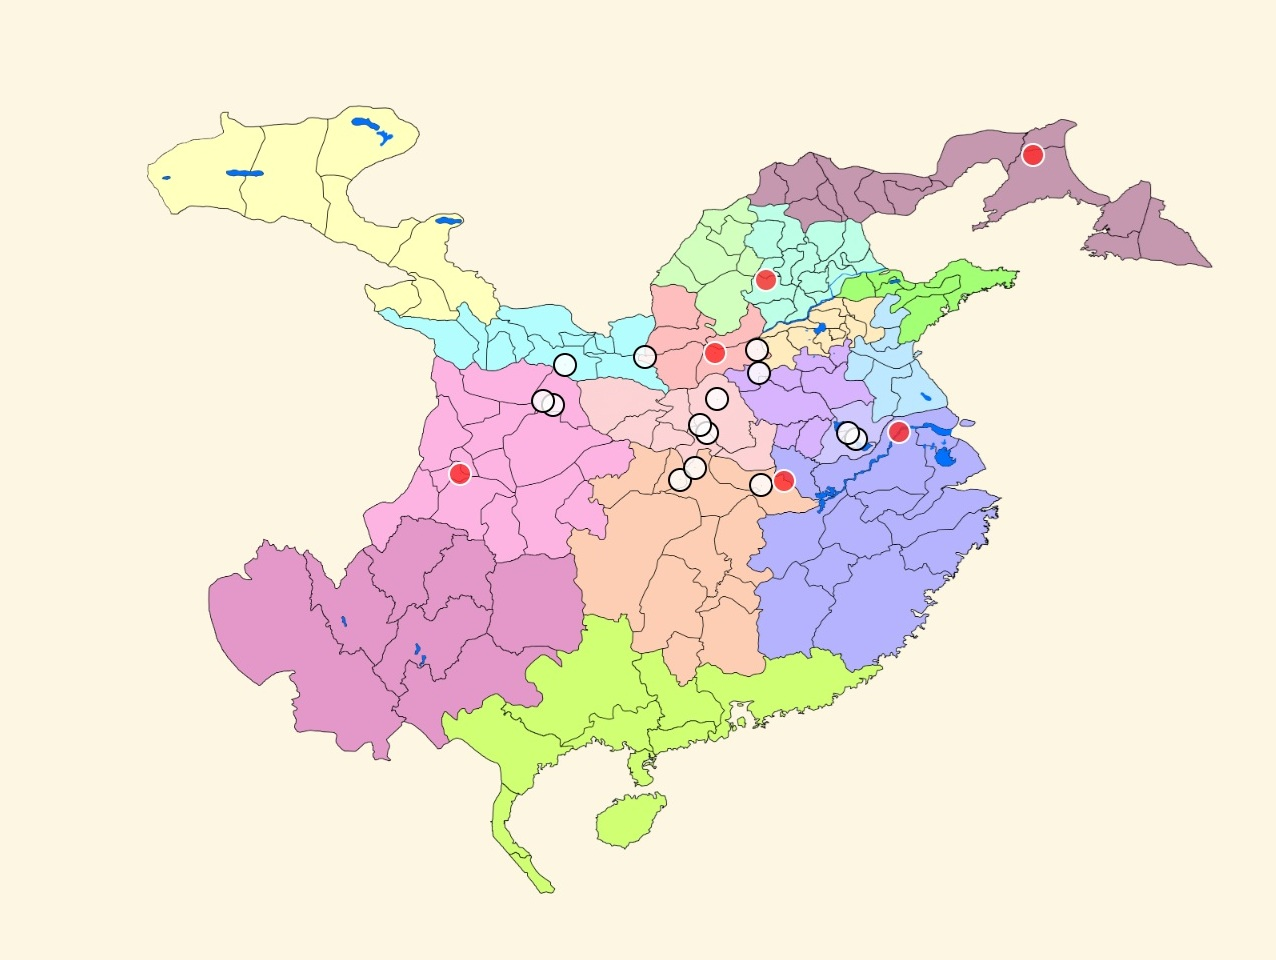
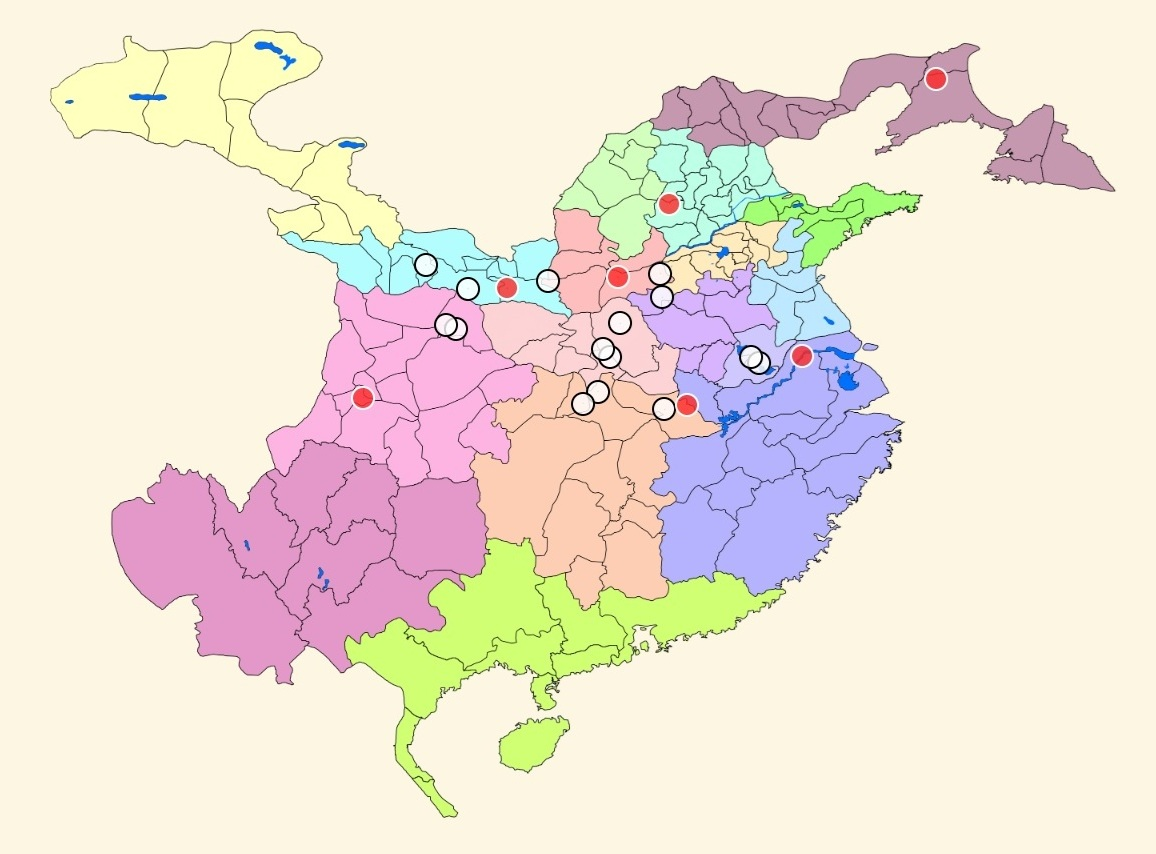
added characters, updated map, content fixes

Changed region(s): [[0.0311, 0.0304, 0.9654, 0.9742]]

diff --git a/ThreeKingdoms/characters.html b/ThreeKingdoms/characters.html
@@ -281,6 +281,21 @@
                         <div class="flip-card-inner">
                             <div class="flip-card-front">
                                 <img class="card-img" src="images/caowei.png" alt="Cao Wei">
+                                <h3>Meng Da</h3>
+                            </div>
+                            <div class="flip-card-back">
+                                <p><strong>Name:</strong> Meng Da (孟達, courtesy name Zidu)</p>
+                                <p><strong>Years:</strong> ?–228 AD</p>
+                                <p><strong>Role:</strong> Warlord and general</p>
+                                <p><strong>Bio:</strong> Originally a general under Shu Han, Meng Da defected to Cao Wei, where he was granted command of key territories. He later plotted to return to Shu, but his conspiracy was uncovered by Sima Yi, who executed him.</p>
+                                <p>His shifting loyalties exemplify the unstable political landscape of the Three Kingdoms.</p>
+                            </div>
+                        </div>
+                    </div>
+                    <div class="flip-card caowei">
+                        <div class="flip-card-inner">
+                            <div class="flip-card-front">
+                                <img class="card-img" src="images/caowei.png" alt="Cao Wei">
                                 <h3>Pang De</h3>
                             </div>
                             <div class="flip-card-back">
@@ -564,6 +579,21 @@
                         <div class="flip-card-inner">
                             <div class="flip-card-front">
                                 <img class="card-img" src="images/shuhan.png" alt="Shu Han">
+                                <h3>Deng Zhi</h3>
+                            </div>
+                            <div class="flip-card-back">
+                                <p><strong>Name:</strong> Deng Zhi (鄧芝, courtesy name Bomiao)</p>
+                                <p><strong>Years:</strong> ?–251 AD</p>
+                                <p><strong>Role:</strong> Diplomat and General of Shu Han</p>
+                                <p><strong>Bio:</strong> Known for his sharp diplomacy, he successfully negotiated with Eastern Wu after Guan Yu's death to repair the alliance with Shu.</p>
+                                <p>He later served as a general during Zhuge Liang's Northern Expeditions and was respected for both intellect and loyalty.</p>
+                            </div>
+                        </div>
+                    </div>
+                    <div class="flip-card shuhan">
+                        <div class="flip-card-inner">
+                            <div class="flip-card-front">
+                                <img class="card-img" src="images/shuhan.png" alt="Shu Han">
                                 <h3>Fa Zheng</h3>
                             </div>
                             <div class="flip-card-back">
@@ -678,6 +708,20 @@
                         <div class="flip-card-inner">
                             <div class="flip-card-front">
                                 <img class="card-img" src="images/shuhan.png" alt="Shu Han">
+                                <h3>Lady Gan</h3>
+                            </div>
+                            <div class="flip-card-back">
+                                <p><strong>Name:</strong> Lady Gan</p>
+                                <p><strong>Years:</strong> ?–210 AD</p>
+                                <p><strong>Role:</strong> Concubine of Liu Bei, mother of Liu Shan</p>
+                                <p><strong>Bio:</strong> Posthumously honored as Lady Huangsi (the Lady whom the Emporer misses) and later Empress Zhaolie by Liu Shan. Her death was recorded in 210 AD.</p>
+                            </div>
+                        </div>
+                    </div>
+                    <div class="flip-card shuhan">
+                        <div class="flip-card-inner">
+                            <div class="flip-card-front">
+                                <img class="card-img" src="images/shuhan.png" alt="Shu Han">
                                 <h3>Lady Huang</h3>
                             </div>
                             <div class="flip-card-back">
@@ -685,6 +729,65 @@
                                 <p><strong>Years:</strong> ?</p>
                                 <p><strong>Role:</strong> Scholar / Inventor</p>
                                 <p><strong>Bio:</strong> Reputed for intelligence and mechanical skill, assisting in inventions and Shu Han administration. Historical details are limited.</p>
+                            </div>
+                        </div>
+                    </div>
+                    <div class="flip-card shuhan">
+                        <div class="flip-card-inner">
+                            <div class="flip-card-front">
+                                <img class="card-img" src="images/shuhan.png" alt="Shu Han">
+                                <h3>Lady Wu</h3>
+                            </div>
+                            <div class="flip-card-back">
+                                <p><strong>Name:</strong> Lady Wu Xian (吳氏, Empress Wu)</p>
+                                <p><strong>Years:</strong> ?–245 AD</p>
+                                <p><strong>Role:</strong> Empress of Shu Han</p>
+                                <p><strong>Bio:</strong> Empress Wu was the wife of Liu Bei, the second emperor of Shu Han. She held the position of empress during Liu Shan’s reign and was involved in court affairs, though historical records offer few details about her personal life or political influence.</p>
+                            </div>
+                        </div>
+                    </div>
+                    <div class="flip-card shuhan">
+                        <div class="flip-card-inner">
+                            <div class="flip-card-front">
+                                <img class="card-img" src="images/shuhan.png" alt="Shu Han">
+                                <h3>Lady Zhang (Empress Jing’ai)</h3>
+                            </div>
+                            <div class="flip-card-back">
+                                <p><strong>Name:</strong> Lady Zhang (張氏, known as Empress Jing’ai)</p>
+                                <p><strong>Years:</strong> ?–237 AD</p>
+                                <p><strong>Role:</strong> First wife of Liu Shan</p>
+                                <p><strong>Bio:</strong> Lady Jing’Ai was the first wife of Liu Shan, and daugter of Shu general Zhang Fei. She held a respected position in the early days of Liu Shan’s tenure, supporting him in his political alliances.</p>
+                                <p>Historical records provide limited details about her life and influence.</p>
+                            </div>
+                        </div>
+                    </div>
+                    <div class="flip-card shuhan">
+                        <div class="flip-card-inner">
+                            <div class="flip-card-front">
+                                <img class="card-img" src="images/shuhan.png" alt="Shu Han">
+                                <h3>Lady Zhang</h3>
+                            </div>
+                            <div class="flip-card-back">
+                                <p><strong>Name:</strong> Lady Zhang (張氏, Empress Zhang)</p>
+                                <p><strong>Years:</strong> ?–264 AD</p>
+                                <p><strong>Role:</strong> Empress of Shu Han</p>
+                                <p><strong>Bio:</strong> The second wife of Emperor Liu Shan, they married in 238 AD the year after his previous wife, Lady Zhang's sister died. Daughter of Shu general Zhang Fei.</p>
+                                <p>She held the position of empress during the later years of Shu Han. Though little is known about her personal actions, she played a ceremonial and familial role within the royal court, supporting the imperial household during a period of political instability.</p>
+                            </div>
+                        </div>
+                    </div>
+                    <div class="flip-card shuhan">
+                        <div class="flip-card-inner">
+                            <div class="flip-card-front">
+                                <img class="card-img" src="images/shuhan.png" alt="Shu Han">
+                                <h3>Li Yan (Li Ping)</h3>
+                            </div>
+                            <div class="flip-card-back">
+                                <p><strong>Name:</strong> Li Yan (李嚴, courtesy name Zhengfang)</p>
+                                <p><strong>Years:</strong> ?–late 230s AD</p>
+                                <p><strong>Role:</strong> Official and General of Shu Han</p>
+                                <p><strong>Bio:</strong> Formerly an officer under Liu Zhang, he surrendered to Liu Bei and rose to high rank in Shu.</p>
+                                <p>Zhuge Liang entrusted him with logistics during the Northern Expeditions. However, after a supply failure and an attempted cover-up, he was stripped of office and demoted.</p>
                             </div>
                         </div>
                     </div>
@@ -729,6 +832,36 @@
                                 <p><strong>Years:</strong> ?–234 AD</p>
                                 <p><strong>Role:</strong> Shu General</p>
                                 <p><strong>Bio:</strong> Cousin of Ma Chao; served Shu Han faithfully and participated in later campaigns defending the state.</p>
+                            </div>
+                        </div>
+                    </div>
+                    <div class="flip-card shuhan">
+                        <div class="flip-card-inner">
+                            <div class="flip-card-front">
+                                <img class="card-img" src="images/shuhan.png" alt="Shu Han">
+                                <h3>Ma Su</h3>
+                            </div>
+                            <div class="flip-card-back">
+                                <p><strong>Name:</strong> Ma Su (馬謖, courtesy name Youchang)</p>
+                                <p><strong>Years:</strong> ?–228 AD</p>
+                                <p><strong>Role:</strong> Advisor and Officer of Shu Han</p>
+                                <p><strong>Bio:</strong> A talented but overconfident strategist trusted by Zhuge Liang. His poor handling of the Battle of Jieting led to a crucial defeat for Shu.</p>
+                                <p>Zhuge Liang, though fond of him, ordered his execution to uphold military law. His story became a cautionary tale about discipline and judgement.</p>
+                            </div>
+                        </div>
+                    </div>
+                    <div class="flip-card shuhan">
+                        <div class="flip-card-inner">
+                            <div class="flip-card-front">
+                                <img class="card-img" src="images/shuhan.png" alt="Shu Han">
+                                <h3>Ma Zhong</h3>
+                            </div>
+                            <div class="flip-card-back">
+                                <p><strong>Name:</strong> Ma Zhong (馬忠, courtesy name Dexian)</p>
+                                <p><strong>Years:</strong> ?–249</p>
+                                <p><strong>Role:</strong> Shu Han general and administrator</p>
+                                <p><strong>Bio:</strong> Served Shu Han under Liu Bei and Zhuge Liang, holding posts in the southern commanderies.</p>
+                                <p>Known for helping secure Shu’s frontiers and supporting the state’s internal governance through both civil and military service.</p>
                             </div>
                         </div>
                     </div>
@@ -793,6 +926,21 @@
                         <div class="flip-card-inner">
                             <div class="flip-card-front">
                                 <img class="card-img" src="images/shuhan.png" alt="Shu Han">
+                                <h3>Wu Yi</h3>
+                            </div>
+                            <div class="flip-card-back">
+                                <p><strong>Name:</strong> Wu Yi (吳懿, courtesy name Ziyuan)</p>
+                                <p><strong>Years:</strong> ?–230s AD</p>
+                                <p><strong>Role:</strong> General of Shu Han</p>
+                                <p><strong>Bio:</strong> Originally from Yi Province, Wu Yi became a trusted officer under Liu Bei and later served Zhuge Liang during the Northern Expeditions.</p>
+                                <p>He held several key military posts and was known for his reliability and strong regional ties, especially through marriage alliances.</p>
+                            </div>
+                        </div>
+                    </div>
+                    <div class="flip-card shuhan">
+                        <div class="flip-card-inner">
+                            <div class="flip-card-front">
+                                <img class="card-img" src="images/shuhan.png" alt="Shu Han">
                                 <h3>Xiahou Ba</h3>
                             </div>
                             <div class="flip-card-back">
@@ -844,6 +992,21 @@
                                 <p><strong>Role:</strong> Shu General</p>
                                 <p><strong>Bio:</strong> Fierce and loyal general, brother-in-arms of Liu Bei and Guan Yu; crucial in establishing Shu Han.</p>
                                 <p>One of Shu's Five Tiger Generals.</p>
+                            </div>
+                        </div>
+                    </div>
+                    <div class="flip-card shuhan">
+                        <div class="flip-card-inner">
+                            <div class="flip-card-front">
+                                <img class="card-img" src="images/shuhan.png" alt="Shu Han">
+                                <h3>Zhang Yi</h3>
+                            </div>
+                            <div class="flip-card-back">
+                                <p><strong>Name:</strong> Zhang Yi (張翼, courtesy name Junsi)</p>
+                                <p><strong>Years:</strong> 166–230 AD</p>
+                                <p><strong>Role:</strong> Shu Han general and strategist</p>
+                                <p><strong>Bio:</strong> Served under Liu Bei and later Zhuge Liang, contributing to Shu's northern campaigns.</p>
+                                <p>Zhang Yi was known for his military acumen and loyal service during key battles against Cao Wei, including advising on strategic deployments in Hanzhong and surrounding regions.</p>
                             </div>
                         </div>
                     </div>
@@ -1083,6 +1246,7 @@
                                 <p><strong>Years:</strong> ?–? (early 3rd century)</p>
                                 <p><strong>Role:</strong> Sister of Sun Quan; Wife of Liu Bei</p>
                                 <p><strong>Bio:</strong> A bold and spirited woman reputed to have martial training. Her marriage to Liu Bei symbolized a temporary alliance between Wu and Shu.</p>
+                                <p>Effectively divorced after Liu Bei's seizure of Yi Province from Liu Zhang.</p>
                             </div>
                         </div>
                     </div>
@@ -1596,13 +1760,14 @@
                         <div class="flip-card-inner">
                             <div class="flip-card-front">
                                 <img class="card-img leader-img" src="images/others.png" alt="Other Heroes">
-                                <h3>Liu Zheng</h3>
+                                <h3>Liu Zhang</h3>
                             </div>
                             <div class="flip-card-back">
-                                <p><strong>Name:</strong> Liu Zheng (劉整, courtesy name Gongzhao)</p>
-                                <p><strong>Years:</strong> ?–?</p>
-                                <p><strong>Role:</strong> Warlord</p>
-                                <p><strong>Bio:</strong> Minor figure in the late Eastern Han period. Held regional power but had limited impact compared with the major warlords.</p>
+                                <p><strong>Name:</strong> Liu Zhang (劉整, courtesy name Jiyu)</p>
+                                <p><strong>Years:</strong> ?–220 AD</p>
+                                <p><strong>Role:</strong> Governer of Yi Province</p>
+                                <p><strong>Bio:</strong> Ruled Yi Province in southwestern China.</p>
+                                <p></p>Known for his cautious and indecisive leadership, he was eventually forced to surrender to Liu Bei in 211 AD, bringing Yi Province under Shu Han control.</p>
                             </div>
                         </div>
                     </div>
@@ -1881,6 +2046,21 @@
                                 <p><strong>Role:</strong> General under Dong Zhuo</p>
                                 <p><strong>Bio:</strong> Noted for defeating Sun Jian at Yangren during the coalition against Dong Zhuo.</p>
                                 <p>Killed later in battle during internal conflicts after Dong Zhuo’s death.</p>
+                            </div>
+                        </div>
+                    </div>
+                    <div class="flip-card other">
+                        <div class="flip-card-inner">
+                            <div class="flip-card-front">
+                                <img class="card-img" src="images/others.png" alt="Other Heroes">
+                                <h3>Yong Kai</h3>
+                            </div>
+                            <div class="flip-card-back">
+                                <p><strong>Name:</strong> Yong Kai (雍闓)</p>
+                                <p><strong>Years:</strong> ?–225 AD</p>
+                                <p><strong>Role:</strong> Local administrator and rebel leader</p>
+                                <p><strong>Bio:</strong> Originally appointed as an official under Liu Bei in the southern commanderies of Shu Han, Yong Kai later rebelled and broke away from Shu authority.</p>
+                                <p>He aligned himself with Eastern Wu and later sought support from Cao Wei to maintain his control in the southwest. His resistance complicated Shu Han’s efforts to stabilise the southern regions.</p>
                             </div>
                         </div>
                     </div>

diff --git a/ThreeKingdoms/history.html b/ThreeKingdoms/history.html
@@ -41,7 +41,7 @@
 
             <section>
                 <h2>The Fall of Luoyang</h2>
-                <p>As the Han dynasty weakened, the imperial capital at Luoyang became a symbol of both power and chaos. When the warlord Dong Zhuo seized control of the city in 189 AD, he forced the young Emperor Xian to serve as a puppet ruler. To secure his position, Dong Zhuo infamously ordered Luoyang to be burned and relocated the court west to Chang’an. The once-great capital was left in ruins, marking the symbolic end of Han imperial stability and the beginning of the age of warlords.</p>
+                <p>As the Han dynasty weakened, the imperial capital at Luoyang became a symbol of both power and chaos. When the warlord Dong Zhuo seized control of the city in 189 AD, he forced the young Emperor Xian to serve as a puppet ruler. To secure his position, Dong Zhuo infamously ordered Luoyang to be burned and relocated the court west to Chang’an (now Xi'an). The once-great capital was left in ruins, marking the symbolic end of Han imperial stability and the beginning of the age of warlords.</p>
                 <div class="history-image-single">
                     <a href="images/imperial_architecture.jpg" class="magnify">
                         <img src="images/imperial_architecture.jpg" alt="Imperial architecture reminiscent of Han Luoyang">

diff --git a/ThreeKingdoms/map.html b/ThreeKingdoms/map.html
@@ -46,6 +46,8 @@
                     <div class="map-marker" style="top:41.8%; left:64.8%;" data-tooltip="Xiaoyao Ford"></div>
                     <div class="map-marker" style="top:45.2%; left:51.4%;" data-tooltip="Changban"></div>
                     <div class="map-marker" style="top:46.7%; left:50.1%;" data-tooltip="Xiaoting(Yiling)"></div>
+                    <div class="map-marker" style="top:30.3%; left:37.0%;" data-tooltip="Jieting"></div>
+                    <div class="capital-marker" style="top:33.0%; left:43.8%;" data-tooltip="Chang'An, western capital"></div>
                     <div class="map-marker" style="top:47.3%; left:56.9%;" data-tooltip="Chibi (Red Cliffs)"></div>
                     <div class="map-marker" style="top:33.1%; left:40.5%;" data-tooltip="Wuzhang Plains"></div>
                     <div class="map-marker" style="top:37.8%; left:39.5%;" data-tooltip="Hanzhong"></div>

diff --git a/ThreeKingdoms/index.html b/ThreeKingdoms/index.html
@@ -29,7 +29,6 @@
         </header>
 
         <main>
-            
             <section id="intro">
                 <div class="intro-container">
                     <h1>Enter the Three Kingdoms</h1>
